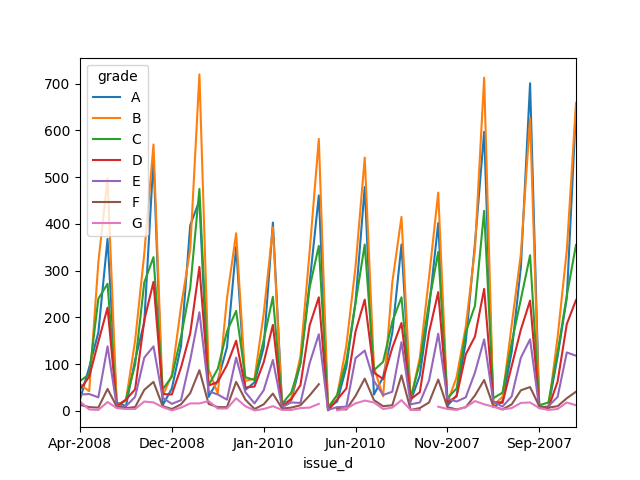
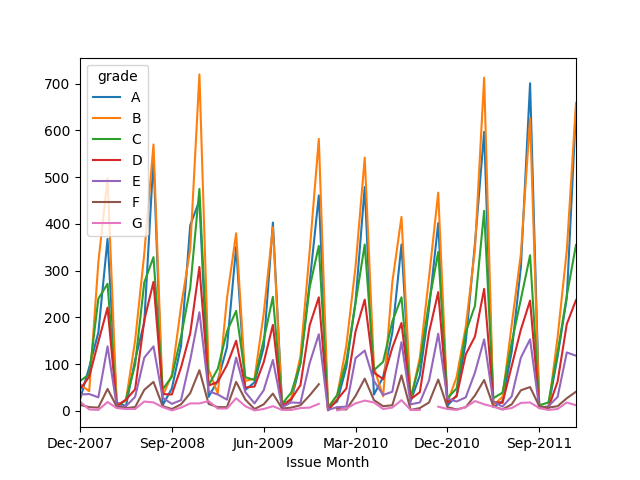
Added X axis Labels and tick marks. plots data in order by month

diff --git a/produceVisualizations.py b/produceVisualizations.py
@@ -1,0 +1,36 @@
+import matplotlib.pyplot as plt
+import pandas as pd
+
+def monthNuber(issue_d):
+    monthYear = issue_d.split('-')
+    months= ['Jan', 'Feb', 'Mar', 'Apr', 'May', 'Jun', 'Jul', 'Aug', 'Sep', 'Oct', 'Nov', 'Dec']
+    offset = int(monthYear[1]) - 2008
+    return offset * 12 + months.index(monthYear[0]) + 1
+
+def getTickLabels(orderedGradeRows):
+    interestingrows = [orderedGradeRows.loc[orderedGradeRows['order'] == i] for i in range(0, len(orderedGradeRows)) if i % int((len(orderedGradeRows)/6)) == 0]
+    monthlabels = [str(interestingrows[i]['issue_d']).split()[1] for i in range(len(interestingrows)-1)]
+    return monthlabels
+
+
+
+csv = pd.read_csv('LoanStats3a.csv', low_memory=False)
+gradeSumByDate = csv.groupby(['grade', 'issue_d']).agg(['sum', 'count', 'mean'])['loan_amnt'].reset_index()
+orderedList = [monthNuber(issue_d=i) for i in gradeSumByDate['issue_d']]
+gradeSumByDate['order'] = pd.Series(orderedList)
+gradeSumByDate = gradeSumByDate.sort_values(by='order')
+meanplot = gradeSumByDate.pivot(index='order', columns='grade', values='mean').plot()
+meanplot.set_xlabel('Issue Month')
+meanplot.set_xticklabels(getTickLabels(gradeSumByDate.loc[gradeSumByDate['grade'] == 'A'].sort_values('order')))
+sumplot = gradeSumByDate.pivot(index='issue_d', columns='grade', values='sum').plot()
+sumplot.set_xlabel('Issue Month')
+sumplot.set_xticklabels(getTickLabels(gradeSumByDate.loc[gradeSumByDate['grade'] == 'A'].sort_values('order')))
+countplot = gradeSumByDate.pivot(index='issue_d', columns='grade', values='count').plot()
+countplot.set_xlabel('Issue Month')
+countplot.set_xticklabels(getTickLabels(gradeSumByDate.loc[gradeSumByDate['grade'] == 'A'].sort_values('order')))
+countplot.figure.savefig('maeanplot.png')
+sumplot.figure.savefig('sumplot.png')
+countplot.figure.savefig('countplot.png')
+meanplot.figure.show()
+countplot.figure.show()
+sumplot.figure.show()
